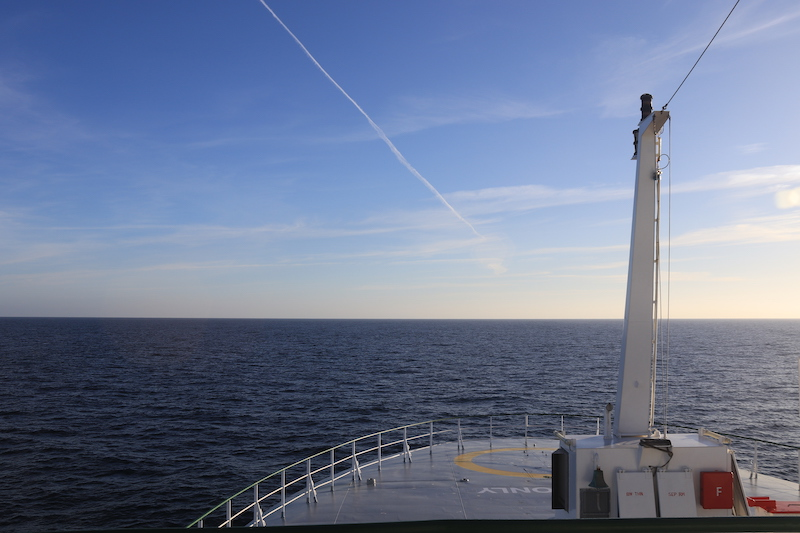
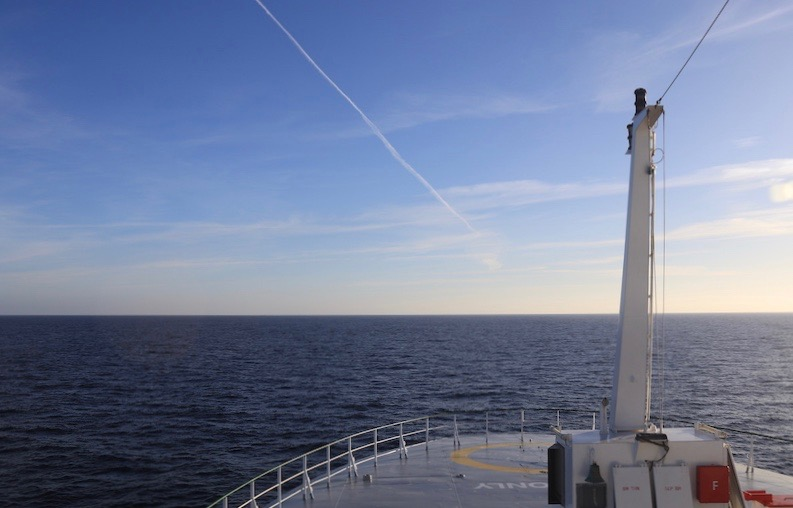
Small adjustments to some images & another break at the top

diff --git a/_posts/2018-11-09-CSHAS2018.md b/_posts/2018-11-09-CSHAS2018.md
@@ -7,6 +7,8 @@ image: /assets/images/CSHAS2018/boat_selfie.jpg
 
 *5/5 would recommend*
 
+<br>
+
 {% include image.html img="assets/images/CSHAS2018/ce_bow.jpg" title="Bow of the Explorer on calm day" caption="What a view! We had such incredible weather for most of the trip." %}
 
 When I say I'm heading on a research cruise, some landlubbers assume that I'm headed off on a luxury tour of the Irish coast with cocktails at 5pm in the sunset deck. Now.... that's not exactly true. For one, the Irish research vessels are dry, so it's more likely to be a cup of tea and a packet of [Tayto][tayto], and, despite having the word "cruise" in the description, we are on board to do some work.
